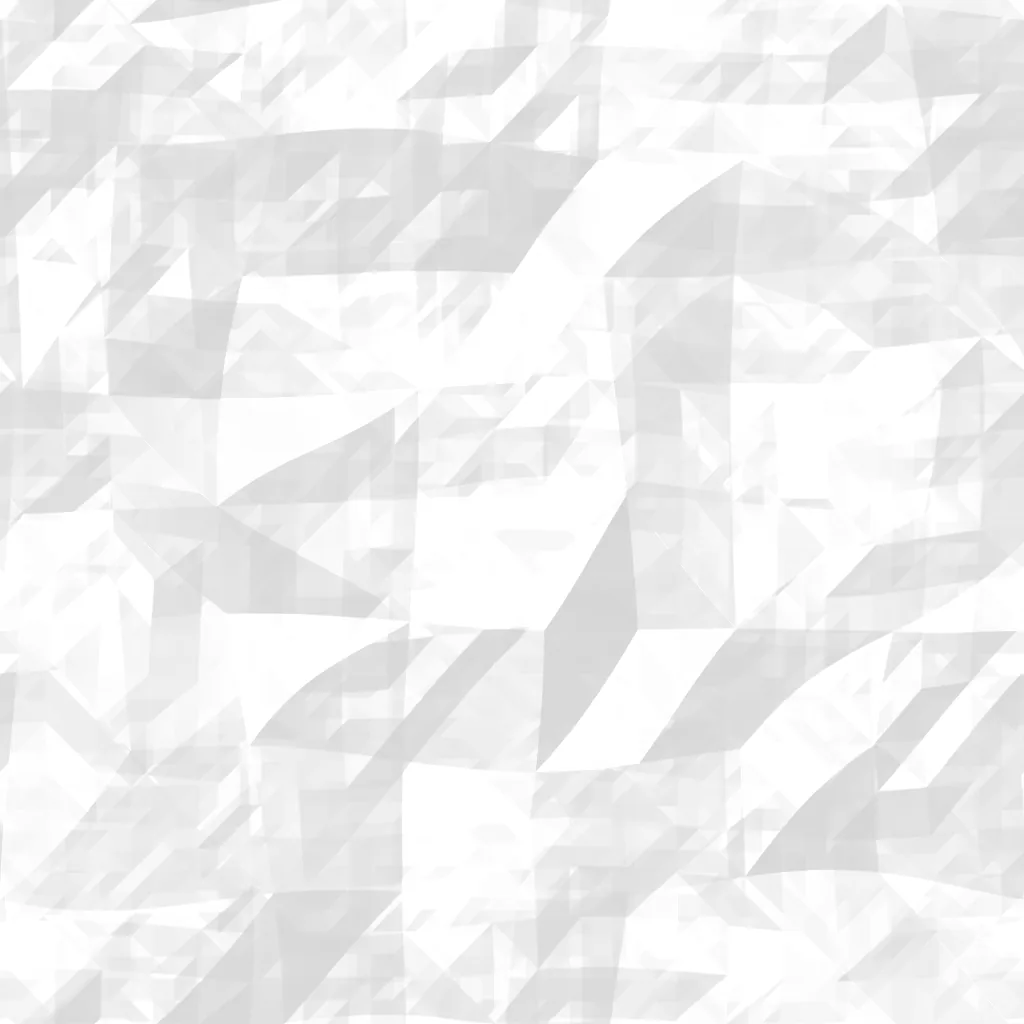
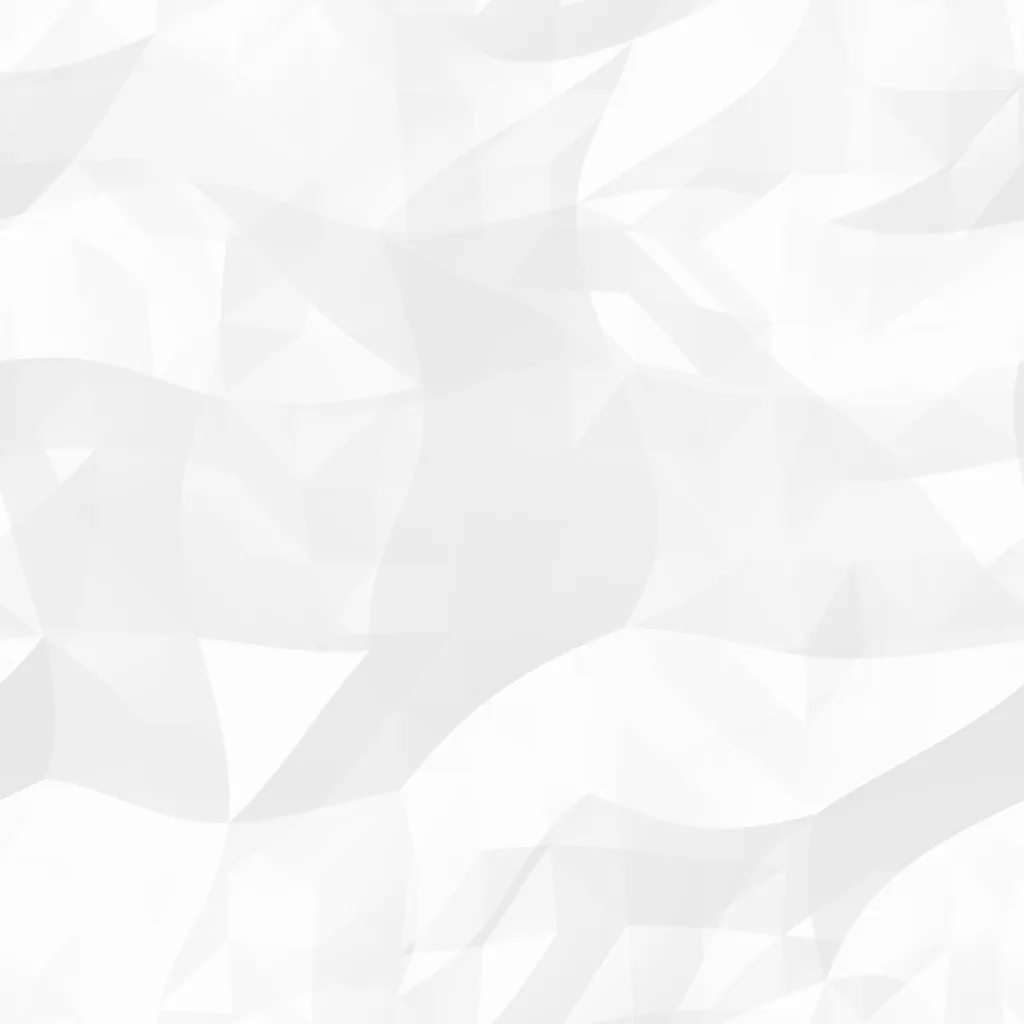
design: papier froissé plus calme (grands plis, contraste doux)

diff --git a/public/app.css b/public/app.css
@@ -30,7 +30,7 @@ body::before {
   position: fixed; inset: 0;
   z-index: -1;
   pointer-events: none;
-  background: url("/brand/paper-crumple.webp") 0 0 / 1024px 1024px repeat;
+  background: url("/brand/paper-crumple.webp?v=2") 0 0 / 1024px 1024px repeat;
   mix-blend-mode: multiply;
   opacity: var(--paper-crumple, 1);
 }

diff --git a/public/index.html b/public/index.html
@@ -23,7 +23,7 @@
 
   <!-- Fonts -->
   <link rel="stylesheet" href="/tokens.css?v=3">
-  <link rel="stylesheet" href="/app.css?v=17">
+  <link rel="stylesheet" href="/app.css?v=18">
   <link rel="preconnect" href="https://fonts.googleapis.com">
   <link rel="preconnect" href="https://fonts.gstatic.com" crossorigin>
 </head>

diff --git a/tools/paper/crumple.py b/tools/paper/crumple.py
@@ -44,7 +44,7 @@ def facets(G, amp, warp):
                  h11 + (1 - fu) * (h01 - h11) + (1 - fv) * (h10 - h11))
     return amp * np.where(diag[j, i], a, b) / G
 
-H = facets(8, 1.0, 0.9 / 8) + facets(21, 0.5, 0.9 / 21) + facets(47, 0.2, 0.9 / 47)
+H = facets(5, 1.0, 0.9 / 5) + facets(13, 0.3, 0.9 / 13)
 
 gx = (np.roll(H, -1, 1) - np.roll(H, 1, 1)) * N / 2
 gy = (np.roll(H, -1, 0) - np.roll(H, 1, 0)) * N / 2
@@ -55,6 +55,6 @@ light = np.array([-0.45, -0.6, 0.66]); light /= np.linalg.norm(light)
 shade = (nx * light[0] + ny * light[1] + nz * light[2]) / norm
 shade = (shade - np.median(shade)) / shade.std()
 
-gray = np.clip(241 + shade * 13, 188, 255).astype(np.uint8)
+gray = np.clip(245 + shade * 6, 222, 255).astype(np.uint8)
 Image.fromarray(gray, 'L').save('public/brand/paper-crumple.webp', 'WEBP', quality=82, method=6)
 print('ok', gray.min(), int(np.median(gray)), gray.max())
